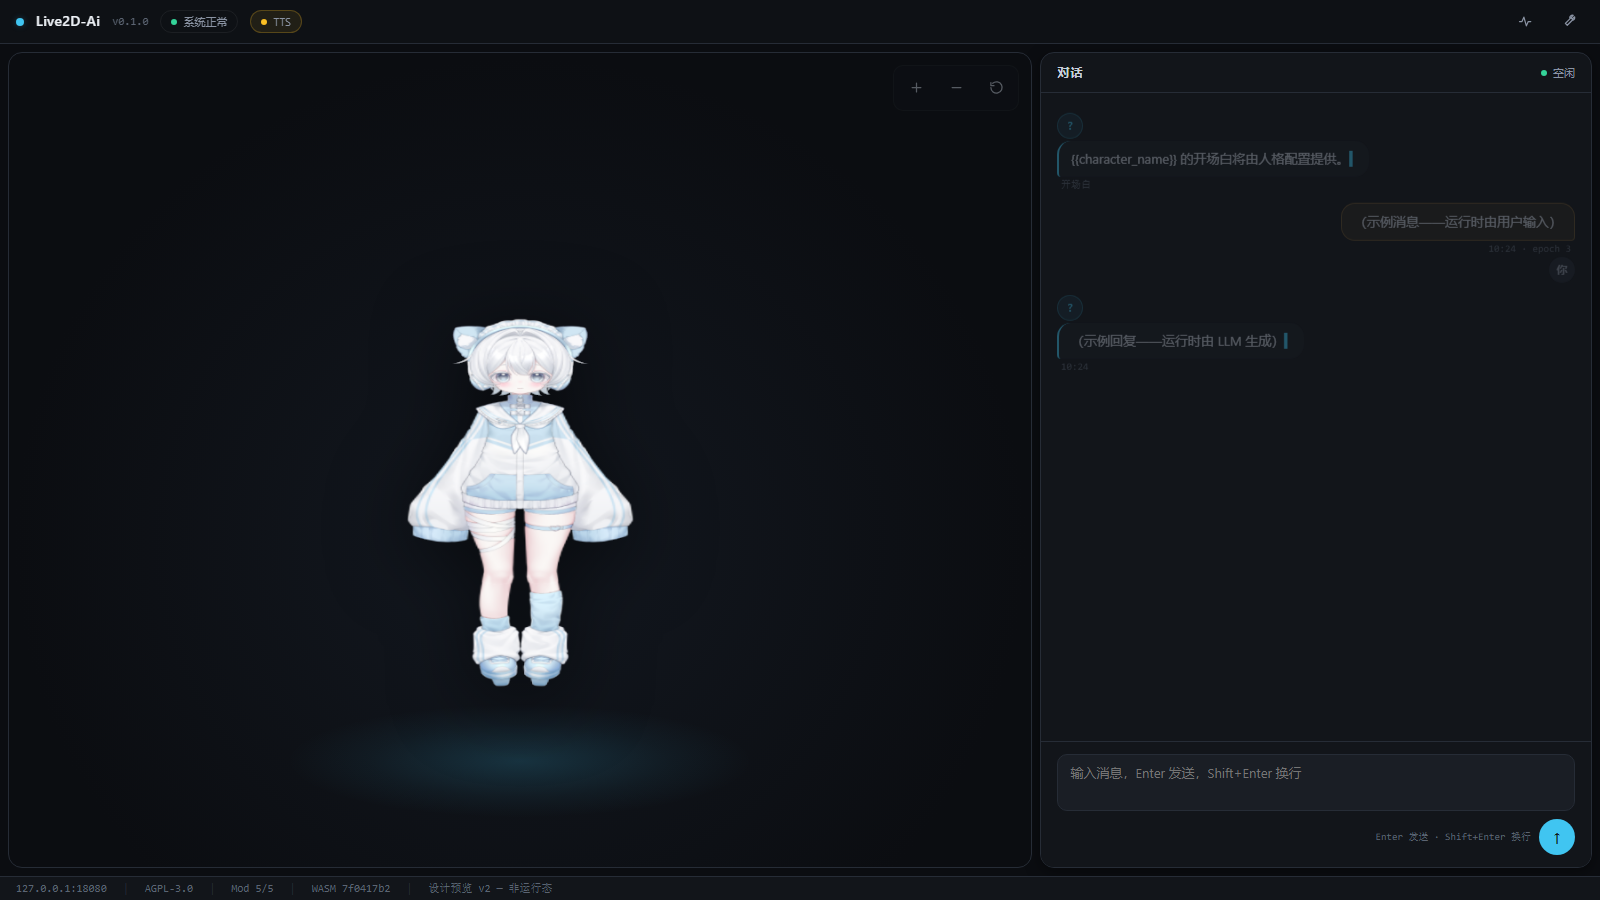
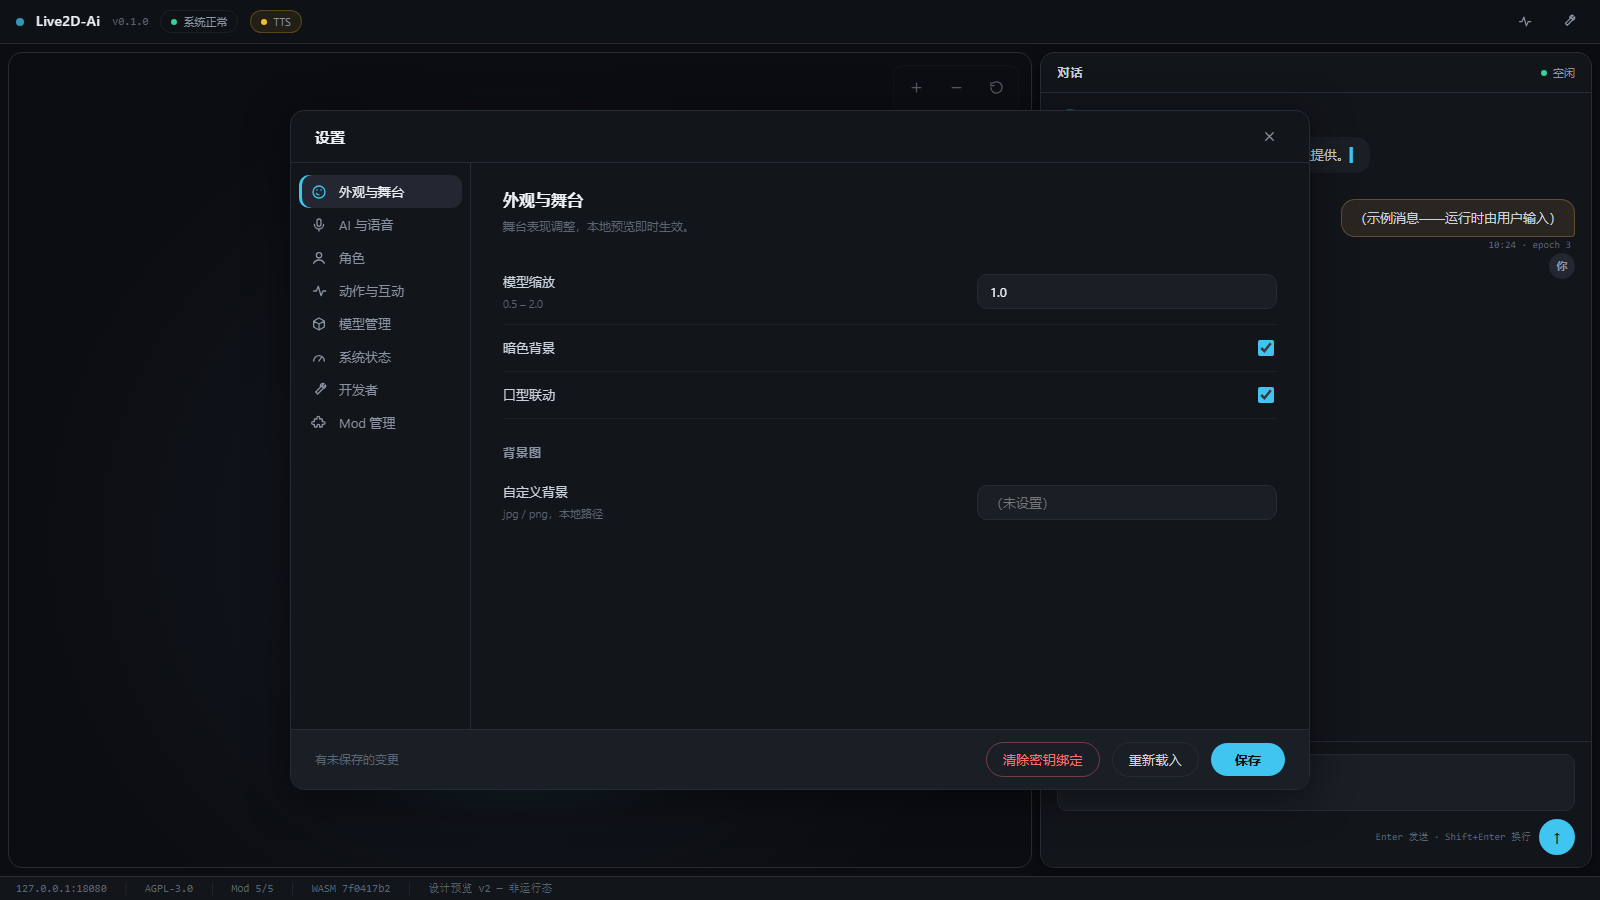
docs(p3.1): 预览 v2.3——按用户 7 项重构: 分区6项(角色酒馆式+模型并入/系统状态并入开发者/实时日志)/锁定释放交互/色调三选/口型移动作区/前后端版本号/去端点检查文案

diff --git a/docs/design/ui-preview-v2.html b/docs/design/ui-preview-v2.html
@@ -211,6 +211,29 @@ button { font-family: var(--font); cursor: pointer; }
 }
 .field-row input[type=text]:focus, .field-row select:focus { outline: none; border-color: var(--brand); box-shadow: var(--sh-glow); }
 .field-row input[type=checkbox] { accent-color: var(--brand); width: 16px; height: 16px; }
+/* 分段按钮（锁定/释放、色调三选） */
+.seg { display: inline-flex; gap: var(--s-1); }
+.seg-btn { display: inline-flex; align-items: center; gap: 6px; padding: 6px 14px; border-radius: var(--r-md); border: 1px solid var(--line); background: var(--bg-2); color: var(--fg-mid); font-size: 12px; transition: all var(--t-fast) var(--ease); }
+.seg-btn:hover { border-color: var(--fg-low); color: var(--fg); }
+.seg-btn.active { background: rgba(64,197,241,.12); border-color: var(--brand); color: var(--brand); }
+.seg-btn .sw { width: 12px; height: 12px; border-radius: 3px; border: 1px solid var(--line); display: inline-block; }
+/* 酒馆式多行字段（col 变体） */
+.field-row.col { flex-direction: column; align-items: stretch; gap: var(--s-1); border-bottom: 0; padding-bottom: 0; }
+.field-row.col + .field-row.col { padding-top: 0; }
+.field-row.col textarea { width: 100%; background: var(--bg-2); color: var(--fg-hi); border: 1px solid var(--line); border-radius: var(--r-md); padding: var(--s-2) var(--s-3); font: 13px/1.6 var(--font); resize: vertical; min-height: 44px; transition: border-color var(--t-fast) var(--ease), box-shadow var(--t-fast) var(--ease); }
+.field-row.col textarea:focus { outline: none; border-color: var(--brand); box-shadow: var(--sh-glow); }
+/* 实时日志流 */
+.log-stream { background: #0a0c10; border: 1px solid var(--line); border-radius: var(--r-md); padding: var(--s-3); font: 11px/1.7 var(--mono); height: 260px; overflow-y: auto; }
+.log-stream::-webkit-scrollbar { width: 6px; }
+.log-stream::-webkit-scrollbar-thumb { background: var(--line); border-radius: 3px; }
+.log-line { display: flex; gap: var(--s-2); white-space: pre-wrap; word-break: break-all; }
+.log-line .lt { color: var(--fg-low); flex-shrink: 0; }
+.log-line .lv { flex-shrink: 0; font-weight: 600; }
+.log-line .lv.info { color: var(--brand); }
+.log-line .lv.warn { color: var(--warn); }
+.log-line .lv.err { color: var(--err); }
+.log-line .lv.dbg { color: var(--fg-low); }
+.log-line .lm { color: var(--fg); }
 /* toggle switch（Mod 运行时开关） */
 .toggle { position: relative; display: inline-block; width: 40px; height: 22px; cursor: pointer; }
 .toggle input { opacity: 0; width: 0; height: 0; }
@@ -340,16 +363,18 @@ button { font-family: var(--font); cursor: pointer; }
       </section>
       <section class="settings-section" data-p="ai">
         <h3 class="sec-title">AI 与语音</h3>
-        <p class="sec-desc">对话与语音服务端点（OpenAI 兼容）。</p>
+        <p class="sec-desc">对话与语音服务。本地推理由 Mod 接管时，字段自动切换为只读回显。</p>
         <div class="group-title">LLM <span class="mode-tag" id="llmModeTag">外部 API 模式</span></div>
-        <div class="field-row" id="llmExtFields"><label class="lbl" for="f-llm-url">Base URL</label><input id="f-llm-url" type="text" value="http://127.0.0.1:11434/v1"></div>
-        <div class="field-row" id="llmLocalHint" hidden><span class="lbl">本地推理<small>local-llm Mod 已接管端点</small></span><span class="mode-note">http://127.0.0.1:11434/v1 · qwen3.5:4b</span></div>
+        <div class="field-row"><label class="lbl" for="f-llm-url">服务地址</label><input id="f-llm-url" type="text" value="http://127.0.0.1:11434/v1"></div>
         <div class="field-row"><label class="lbl" for="f-llm-model">模型</label><input id="f-llm-model" type="text" value="qwen3.5:4b"></div>
-        <div class="field-row"><label class="lbl" for="f-llm-key">API Key 环境变量<small>存变量名，非密钥</small></label><input id="f-llm-key" type="text" placeholder="（未绑定）"></div>
+        <div class="field-row"><label class="lbl" for="f-llm-key">密钥环境变量<small>存变量名，非密钥</small></label><input id="f-llm-key" type="text" placeholder="（未绑定）"></div>
         <div class="group-title">TTS <span class="mode-tag" id="ttsModeTag">外部 API 模式</span></div>
-        <div class="field-row" id="ttsExtFields"><label class="lbl" for="f-tts-url">Base URL</label><input id="f-tts-url" type="text" placeholder="http://127.0.0.1:8000/v1"></div>
-        <div class="field-row" id="ttsLocalHint" hidden><span class="lbl">本地推理<small>local-tts Mod 已接管端点</small></span><span class="mode-note">http://127.0.0.1:8000/v1 · af_heart</span></div>
+        <div class="field-row"><label class="lbl" for="f-tts-url">服务地址</label><input id="f-tts-url" type="text" placeholder="http://127.0.0.1:8000/v1"></div>
         <div class="field-row"><label class="lbl" for="f-tts-voice">音色</label><input id="f-tts-voice" type="text" placeholder="af_heart"></div>
+        <div class="group-title">版本</div>
+        <div class="field-row"><span class="lbl">前端</span><span class="mode-note" id="verFront">v0.1.0</span></div>
+        <div class="field-row"><span class="lbl">后端</span><span class="mode-note" id="verBack">v0.1.0 (8bc3d5c3)</span></div>
+        <div class="field-row"><span class="lbl">Mod 系统 API</span><span class="mode-note">v1</span></div>
       </section>
       <section class="settings-section" data-p="status">
         <h3 class="sec-title">系统状态</h3>
@@ -366,9 +391,13 @@ button { font-family: var(--font); cursor: pointer; }
       </section>
       <section class="settings-section" data-p="actions">
         <h3 class="sec-title">动作与互动</h3>
-        <p class="sec-desc">Live2D 动作触发与互动规则。</p>
-        <div class="field-row"><label class="lbl" for="f-idle">空闲随机动作</label><input id="f-idle" type="checkbox" checked></div>
+        <p class="sec-desc">表演层开关与动作触发。动作经 core 仲裁 + 渲染端表演。</p>
+        <div class="group-title">互动开关</div>
+        <div class="field-row"><label class="lbl" for="f-lip">口型联动<small>TTS 音频驱动口形</small></label><input id="f-lip" type="checkbox" checked></div>
+        <div class="field-row"><label class="lbl" for="f-idle">空闲随机动作<small>空闲时自动小动作</small></label><input id="f-idle" type="checkbox" checked></div>
         <div class="field-row"><label class="lbl" for="f-click">点击触发互动</label><input id="f-click" type="checkbox" checked></div>
+        <div class="group-title">基础动作试演</div>
+        <div id="actionsList" class="actions-list"></div>
       </section>
       <section class="settings-section" data-p="models">
         <h3 class="sec-title">模型管理</h3>
@@ -377,12 +406,15 @@ button { font-family: var(--font); cursor: pointer; }
       </section>
       <section class="settings-section" data-p="dev">
         <h3 class="sec-title">开发者</h3>
-        <p class="sec-desc">调试与日志。</p>
-        <div class="field-row"><label class="lbl" for="f-debug">调试面板</label><input id="f-debug" type="checkbox"></div>
-        <div class="field-row"><label class="lbl" for="f-log-level">日志级别</label>
-          <select id="f-log-level"><option>info</option><option>debug</option><option>trace</option></select>
-        </div>
+        <p class="sec-desc">运行状态快照与实时日志（实时滚动）。</p>
+        <div class="group-title">系统状态</div>
+        <div class="field-row"><label class="lbl" for="f-cfg">配置文件</label><input id="f-cfg" type="text" value="~/.config/live2d-ai/live2d-ai.toml" readonly></div>
+        <div class="field-row"><label class="lbl" for="f-audio">音频设备</label><input id="f-audio" type="text" value="dry-run（无设备）" readonly></div>
+        <div class="field-row"><label class="lbl" for="f-uptime">运行时长</label><input id="f-uptime" type="text" value="1h 23m" readonly></div>
+        <div class="group-title">实时日志 <span class="mode-tag">RUST_LOG 级别联动</span></div>
+        <div class="log-stream" id="logStream"><div class="log-line"><span class="lt">02:45:01</span><span class="lv info">INFO</span><span class="lm">web: supervisor 已启动</span></div><div class="log-line"><span class="lt">02:45:01</span><span class="lv info">INFO</span><span class="lm">ModRegistry 已装配 + 启动（注册 5 个 Mod）</span></div><div class="log-line"><span class="lt">02:45:02</span><span class="lv warn">WARN</span><span class="lm">音频设备不可用，supervisor 进入 dry-run</span></div><div class="log-line"><span class="lt">02:45:03</span><span class="lv info">INFO</span><span class="lm">web-api: 已监听 127.0.0.1:18080</span></div><div class="log-line"><span class="lt">02:46:12</span><span class="lv dbg">DEBUG</span><span class="lm">bridge: stage-zoom reset applied (scale=1.00)</span></div></div>
       </section>
+
       <section class="settings-section" data-p="mods">
         <h3 class="sec-title">Mod 管理</h3>
         <p class="sec-desc">静态编译 Mod：启用/禁用/重启为运行时开关；安装新 Mod 需重新构建。</p>
@@ -422,6 +454,14 @@ document.querySelector('.btn-save').addEventListener('click', () => {
   document.querySelector('.btn-save').classList.remove('dirty');
   document.querySelector('.settings-footer .status').textContent = '已保存';
 });
+function segSel(btn) {
+  btn.parentNode.querySelectorAll('.seg-btn').forEach(b => b.classList.remove('active'));
+  btn.classList.add('active');
+}
+function segColor(btn, mode) {
+  segSel(btn);
+  // 演示：真实实现发 stage-config {bg: mode}
+}
 function modToggle(cb) {
   // 演示：切换后显示"待重启"徽章（真实实现调 POST /api/v1/mods/{id}/config）
   const row = cb.closest('.field-row');
